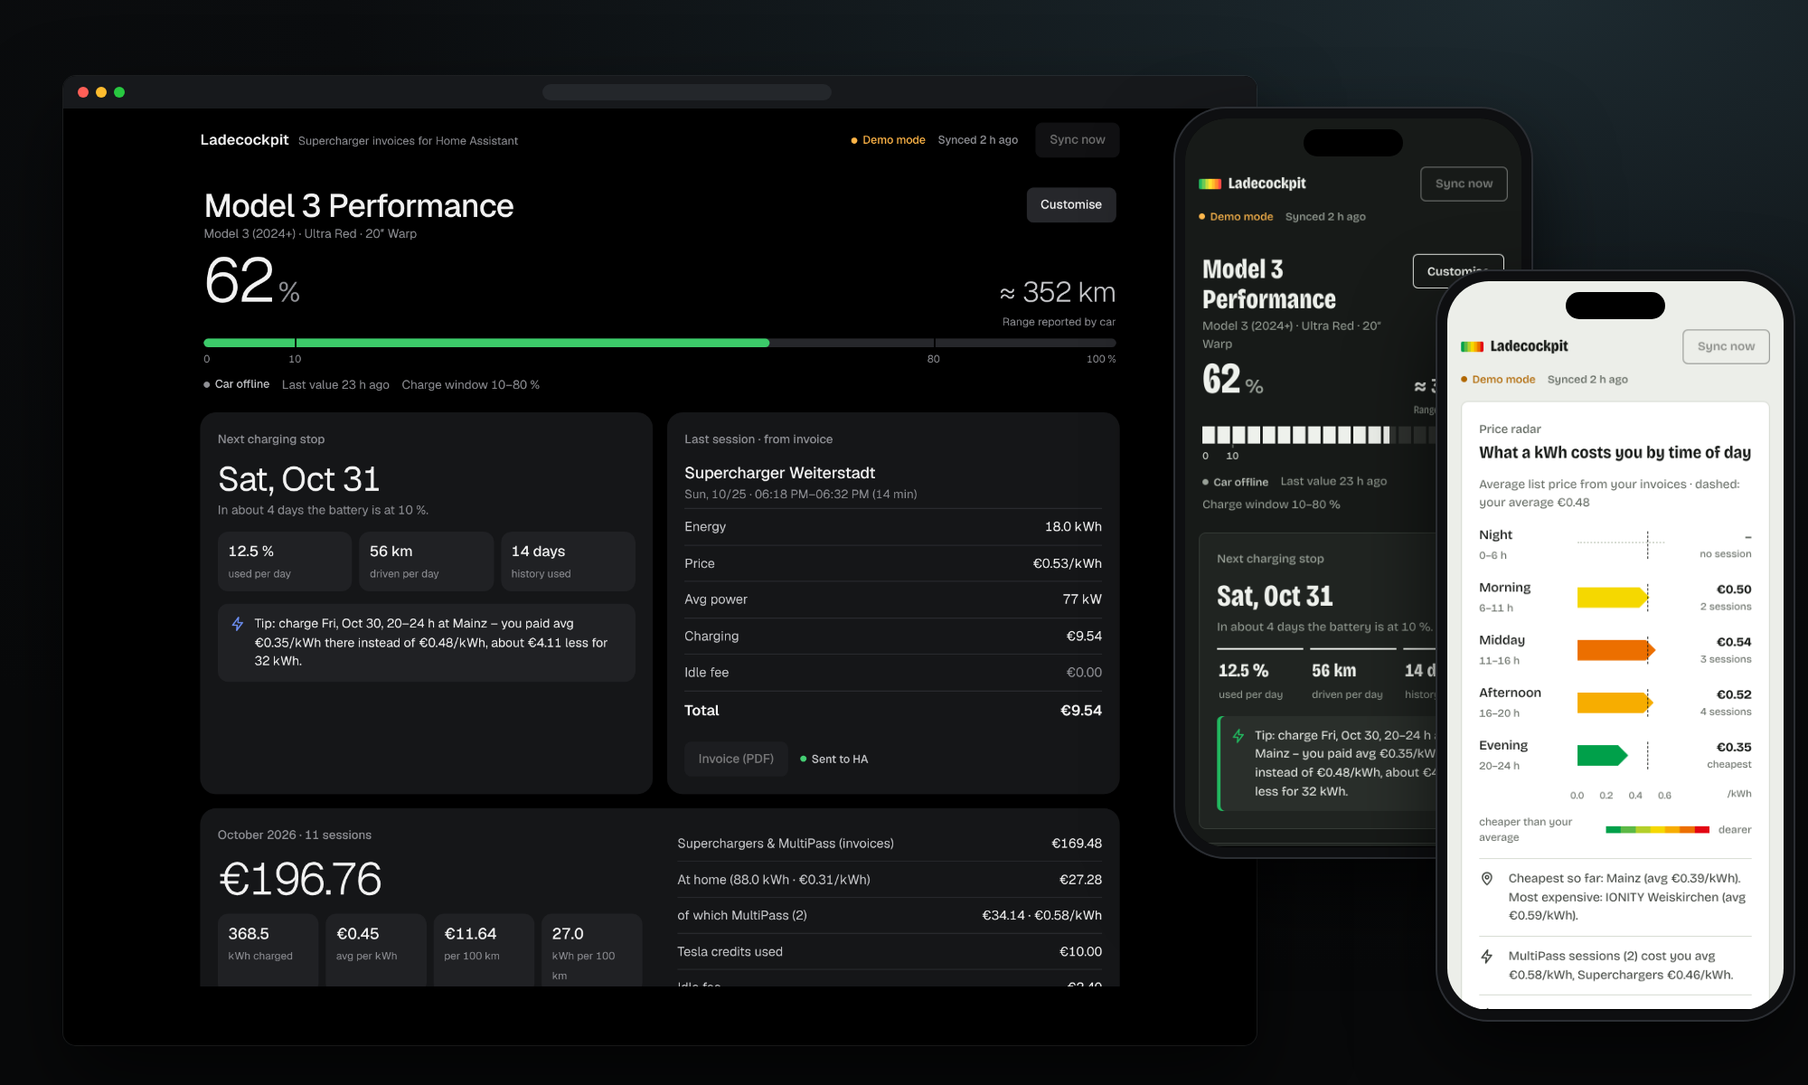
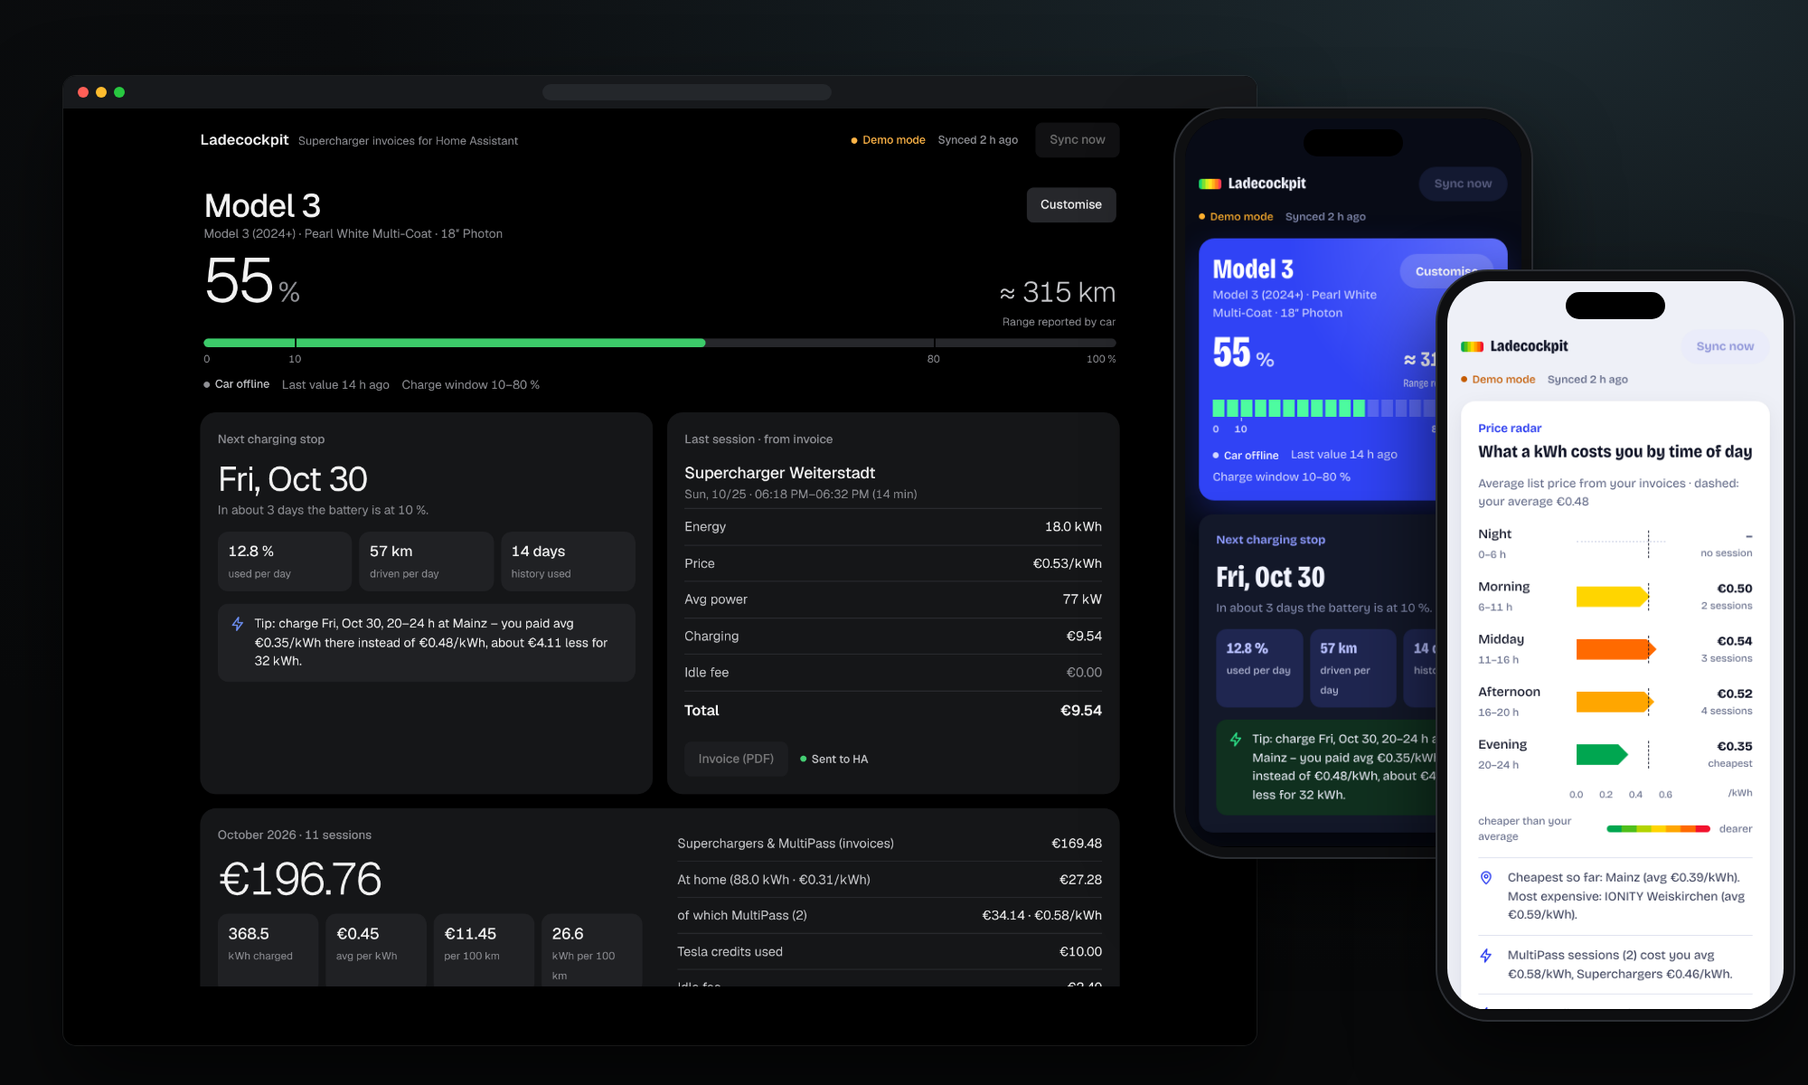
Ladecockpit 0.11.0: modern look in vivid colours

diff --git a/app/static/index.html b/app/static/index.html
@@ -417,10 +417,10 @@ footer { color: var(--mute); font-size: .8rem; display: flex; flex-wrap: wrap; g
 
 </style>
 <style id="look-modern" media="not all">
-/* Modern look: "price scale". Prices carry the colours of the energy label – dark green for
-   cheaper than your average, red for dearer – and that scale is the only colour on the page.
-   Everything else is ink on paper: one grotesque (Bricolage) with condensed bold figures, a
-   segmented battery like a car's display, outlined buttons, tiles with a hairline frame. */
+/* Modern look: "vivid". A saturated ultramarine block carries the car and the battery, everything
+   you can press is a filled pill, and prices wear the full colours of the energy label – green for
+   cheaper than your average, red for dearer. Clean cool whites (or a deep blue-black at night), one
+   grotesque (Bricolage) with condensed bold figures, a segmented battery like a car's display. */
 @font-face {
   font-family: "Bricolage Grotesque"; font-style: normal; font-weight: 200 800; font-stretch: 75% 100%; font-display: swap;
   src: url(fonts/bricolage-latin.woff2) format("woff2");
@@ -432,85 +432,110 @@ footer { color: var(--mute); font-size: .8rem; display: flex; flex-wrap: wrap; g
   unicode-range: U+0100-02BA, U+02BD-02C5, U+02C7-02CC, U+02CE-02D7, U+02DD-02FF, U+1D00-1DBF, U+1E00-1E9F, U+1EF2-1EFF, U+2020, U+20A0-20AB, U+20AD-20C0, U+2113, U+2C60-2C7F, U+A720-A7FF;
 }
 :root {
-  --bg: #eceee9;
+  --bg: #eef0f7;
   --panel: #ffffff;
-  --sunk: #f1f3ef;
-  --btn: transparent;
-  --btn-hover: #141714;
-  --line: #d6dbd2;
-  --ink: #141714;
-  --ink-2: #3a3f39;
-  --mute: #60675f;
-  --accent: #141714;
-  --accent-fill: #141714;
-  --accent-soft: #e2e6df;
+  --sunk: #f1f3fb;
+  --btn: #e6e9ff;
+  --btn-hover: #d6dbff;
+  --line: #e0e3ef;
+  --ink: #0d1124;
+  --ink-2: #343a55;
+  --mute: #5c6483;
+  --accent: #2b3df0;
+  --accent-fill: #2b3df0;
+  --accent-soft: #e6e9ff;
+  --accent-ink: #1d29b5;
   --on-accent: #ffffff;
-  --good: #0c8a43;
-  --good-soft: #dcefe2;
-  --battery: #141714;
-  --warn: #b06600;
-  --warn-soft: #fbeccc;
-  --bad: #d1121f;
-  --bad-soft: #fadadb;
-  --shadow: 0 10px 30px rgba(20, 23, 20, .14);
+  --good: #00874a;
+  --good-soft: #d6f6e5;
+  --battery: #00b85c;
+  --warn: #c45a00;
+  --warn-soft: #ffefd4;
+  --bad: #e0102b;
+  --bad-soft: #ffe1e5;
+  --shadow: 0 1px 2px rgba(13, 17, 36, .05), 0 10px 28px rgba(13, 17, 36, .07);
+  /* the block on top: car and battery */
+  --hero: #2b3df0;
+  --hero-glow: #5b6cff;
+  --on-hero: #ffffff;
+  --on-hero-2: #d3d8ff;
+  --hero-track: rgba(255, 255, 255, .2);
+  --hero-btn: rgba(255, 255, 255, .16);
+  --hero-fill: #4dfca0;
   /* the price scale, cheap to dear */
-  --t-a: #00a04a; --t-b: #5cb946; --t-c: #b4cf2a; --t-d: #f5d800; --t-e: #f7ad00; --t-f: #ec6f00; --t-g: #e30613;
+  --t-a: #00a650; --t-b: #4fbf1c; --t-c: #b3d400; --t-d: #ffd500; --t-e: #ffa600; --t-f: #ff6a00; --t-g: #f2132e;
 
   --f-body: "Bricolage Grotesque", system-ui, -apple-system, "Segoe UI", Roboto, sans-serif;
   --f-code: ui-monospace, SFMono-Regular, Menlo, Consolas, monospace;
 
-  --r: 8px;
+  --r: 16px;
 }
 @media (prefers-color-scheme: dark) {
   :root:not([data-theme="light"]) {
-    --bg: #171a18;
-    --panel: #202421;
-    --sunk: #2a2f2b;
-    --btn: transparent;
-    --btn-hover: #eef1ec;
-    --line: #363c37;
-    --ink: #eef1ec;
-    --ink-2: #c9cfc7;
-    --mute: #98a097;
-    --accent: #eef1ec;
-    --accent-fill: #eef1ec;
-    --accent-soft: #2f3530;
-    --on-accent: #171a18;
-    --good: #39c46d;
-    --good-soft: #1d3324;
-    --battery: #eef1ec;
-    --warn: #ffb84d;
-    --warn-soft: #3a2d14;
-    --bad: #ff5a52;
-    --bad-soft: #3d1a19;
-    --shadow: 0 10px 30px rgba(0, 0, 0, .55);
-    --t-a: #22b85f; --t-b: #6cc955; --t-c: #c3db3c; --t-d: #ffe12e; --t-e: #ffbd2b; --t-f: #ff8a2b; --t-g: #ff4a45;
+    --bg: #080b16;
+    --panel: #131829;
+    --sunk: #1b2138;
+    --btn: #222a52;
+    --btn-hover: #2d3769;
+    --line: #252c48;
+    --ink: #f2f4ff;
+    --ink-2: #c4c9e4;
+    --mute: #8a92b6;
+    --accent: #8e9bff;
+    --accent-fill: #3a4dff;
+    --accent-soft: #1f2650;
+    --accent-ink: #b9c1ff;
+    --on-accent: #ffffff;
+    --good: #2ee38a;
+    --good-soft: #10301f;
+    --battery: #2ee38a;
+    --warn: #ffb02e;
+    --warn-soft: #382a0f;
+    --bad: #ff4f63;
+    --bad-soft: #3c1520;
+    --shadow: 0 12px 32px rgba(0, 0, 0, .5);
+    --hero: #3043f5;
+    --hero-glow: #6271ff;
+    --on-hero: #ffffff;
+    --on-hero-2: #d3d8ff;
+    --hero-track: rgba(255, 255, 255, .2);
+    --hero-btn: rgba(255, 255, 255, .16);
+    --hero-fill: #4dfca0;
+    --t-a: #19d86e; --t-b: #7be033; --t-c: #cdf01f; --t-d: #ffe21f; --t-e: #ffb61a; --t-f: #ff7b1f; --t-g: #ff3d52;
     color-scheme: dark;
   }
 }
 :root[data-theme="dark"] {
-  --bg: #171a18;
-  --panel: #202421;
-  --sunk: #2a2f2b;
-  --btn: transparent;
-  --btn-hover: #eef1ec;
-  --line: #363c37;
-  --ink: #eef1ec;
-  --ink-2: #c9cfc7;
-  --mute: #98a097;
-  --accent: #eef1ec;
-  --accent-fill: #eef1ec;
-  --accent-soft: #2f3530;
-  --on-accent: #171a18;
-  --good: #39c46d;
-  --good-soft: #1d3324;
-  --battery: #eef1ec;
-  --warn: #ffb84d;
-  --warn-soft: #3a2d14;
-  --bad: #ff5a52;
-  --bad-soft: #3d1a19;
-  --shadow: 0 10px 30px rgba(0, 0, 0, .55);
-  --t-a: #22b85f; --t-b: #6cc955; --t-c: #c3db3c; --t-d: #ffe12e; --t-e: #ffbd2b; --t-f: #ff8a2b; --t-g: #ff4a45;
+  --bg: #080b16;
+  --panel: #131829;
+  --sunk: #1b2138;
+  --btn: #222a52;
+  --btn-hover: #2d3769;
+  --line: #252c48;
+  --ink: #f2f4ff;
+  --ink-2: #c4c9e4;
+  --mute: #8a92b6;
+  --accent: #8e9bff;
+  --accent-fill: #3a4dff;
+  --accent-soft: #1f2650;
+  --accent-ink: #b9c1ff;
+  --on-accent: #ffffff;
+  --good: #2ee38a;
+  --good-soft: #10301f;
+  --battery: #2ee38a;
+  --warn: #ffb02e;
+  --warn-soft: #382a0f;
+  --bad: #ff4f63;
+  --bad-soft: #3c1520;
+  --shadow: 0 12px 32px rgba(0, 0, 0, .5);
+  --hero: #3043f5;
+  --hero-glow: #6271ff;
+  --on-hero: #ffffff;
+  --on-hero-2: #d3d8ff;
+  --hero-track: rgba(255, 255, 255, .2);
+  --hero-btn: rgba(255, 255, 255, .16);
+  --hero-fill: #4dfca0;
+  --t-a: #19d86e; --t-b: #7be033; --t-c: #cdf01f; --t-d: #ffe21f; --t-e: #ffb61a; --t-f: #ff7b1f; --t-g: #ff3d52;
   color-scheme: dark;
 }
 
@@ -846,39 +871,60 @@ h1, h2, h3 { font-weight: 650; }
 /* Head: the name with the price scale as its mark */
 .brand h1 { font-size: 1.15rem; font-weight: 750; font-stretch: 80%; letter-spacing: 0; white-space: nowrap; }
 .brand h1::before {
-  content: ""; display: inline-block; vertical-align: -1px; margin-right: 8px; width: 26px; height: 12px; border-radius: 2px;
+  content: ""; display: inline-block; vertical-align: -1px; margin-right: 8px; width: 26px; height: 12px; border-radius: 3px;
   background: linear-gradient(90deg, var(--t-a) 0 14.3%, var(--t-b) 0 28.6%, var(--t-c) 0 42.9%, var(--t-d) 0 57.1%, var(--t-e) 0 71.4%, var(--t-f) 0 85.7%, var(--t-g) 0);
 }
 
-/* Buttons: outlined in ink, filled when pressed or primary */
-.btn { border: 1.5px solid var(--ink); border-radius: 6px; font-weight: 600; background: transparent; }
-.btn:hover { background: var(--ink); color: var(--panel); }
-.btn.primary { background: var(--ink); color: var(--panel); }
-.btn.primary:hover { background: var(--ink-2); }
-.exports a { background: transparent; border: 1px solid var(--line); border-radius: 6px; font-weight: 600; }
-.exports a:hover { background: var(--ink); color: var(--panel); border-color: var(--ink); }
-.chip.info { background: transparent; color: var(--ink-2); border: 1px solid var(--line); border-radius: 4px; }
-.link-btn, .map-link { color: var(--ink); text-decoration: underline; text-underline-offset: 3px; }
-a { color: var(--ink); text-underline-offset: 3px; }
+/* Everything you can press is a pill: tinted, filled in the accent when it matters */
+.btn { border: 0; border-radius: 999px; font-weight: 650; background: var(--btn); color: var(--accent-ink); padding-inline: 18px; }
+.btn:hover { background: var(--accent-fill); color: var(--on-accent); }
+.btn.primary { background: var(--accent-fill); color: var(--on-accent); }
+.btn.primary:hover { background: color-mix(in srgb, var(--accent-fill) 85%, var(--ink)); }
+.exports a { background: var(--btn); color: var(--accent-ink); border-radius: 999px; font-weight: 650; }
+.exports a:hover { background: var(--accent-fill); color: var(--on-accent); }
+.chip.info { background: var(--accent-soft); color: var(--accent-ink); border-radius: 999px; font-weight: 600; }
+.link-btn, .map-link { color: var(--accent); font-weight: 650; }
+a { color: var(--accent); text-underline-offset: 3px; }
 
-/* Tiles: hairline frame, small radius */
-.panel { border: 1px solid var(--line); }
-.panel h2 { font-size: 1.25rem; font-weight: 650; font-stretch: 88%; letter-spacing: 0; }
-.eyebrow { font-weight: 500; }
+/* Tiles: white on cool grey, soft shadow, no frame */
+.panel { box-shadow: var(--shadow); }
+.panel h2 { font-size: 1.25rem; font-weight: 700; font-stretch: 88%; letter-spacing: 0; }
+.eyebrow { font-weight: 650; color: var(--accent); }
 
 /* Figures: condensed bold */
-.big { font-weight: 720; font-stretch: 75%; letter-spacing: -.01em; line-height: .95; }
+.big { font-weight: 750; font-stretch: 75%; letter-spacing: -.01em; line-height: .95; }
 .big small { font-weight: 500; font-stretch: 100%; }
-.range { font-weight: 650; font-stretch: 78%; letter-spacing: 0; color: var(--ink); }
-.next-date { font-weight: 720; font-stretch: 75%; letter-spacing: 0; font-size: clamp(2.2rem, 7vw, 2.9rem); }
+.range { font-weight: 700; font-stretch: 78%; letter-spacing: 0; color: var(--ink); }
+.next-date { font-weight: 750; font-stretch: 75%; letter-spacing: 0; font-size: clamp(2.2rem, 7vw, 2.9rem); }
 .month-total .big { font-size: clamp(2.8rem, 10vw, 3.6rem); }
 .car-text h2 { font-weight: 750; font-stretch: 75%; letter-spacing: 0; font-size: clamp(2rem, 7vw, 2.8rem); }
-.receipt .site { font-weight: 650; font-stretch: 88%; font-size: 1.25rem; }
-.line.total { font-weight: 700; }
+.receipt .site { font-weight: 700; font-stretch: 88%; font-size: 1.25rem; }
+.line.total { font-weight: 750; }
 
-/* Small figure blocks: a rule on top instead of a filled box */
-.kpi, .fact { background: none; border-radius: 0; border-top: 2px solid var(--ink); padding: 8px 2px 0; }
-.kpi b, .fact b { font-weight: 700; font-stretch: 80%; font-size: 1.35rem; }
+/* Small figure blocks: tinted in the accent */
+.kpi, .fact { background: var(--accent-soft); border-radius: 12px; }
+.kpi b, .fact b { font-weight: 750; font-stretch: 80%; font-size: clamp(1.1rem, 4.4vw, 1.4rem); color: var(--accent-ink); }
+.kpi span, .fact span { color: var(--ink-2); }
+
+/* The block on top: car and battery on a saturated ground */
+.hero {
+  background: radial-gradient(120% 130% at 100% 0%, var(--hero-glow) 0%, transparent 60%), var(--hero);
+  color: var(--on-hero); border-radius: 22px; padding: 22px 24px 20px; gap: 10px;
+  box-shadow: 0 16px 40px color-mix(in srgb, var(--hero) 30%, transparent);
+}
+.hero .sub, .hero .stamp, .hero .range small, .hero .big small, .hero .car-miss, .hero .car-form label { color: var(--on-hero-2); }
+.hero .range { color: var(--on-hero); }
+.hero .chip { color: var(--on-hero); }
+.hero .chip::before { background: var(--on-hero-2); }
+.hero .chip.good::before { background: var(--hero-fill); }
+.hero .chip.bad { color: var(--on-hero); }
+.hero .btn { background: var(--hero-btn); color: var(--on-hero); }
+.hero .btn:hover, .hero .btn.primary { background: var(--on-hero); color: var(--hero); }
+.hero .link-btn { color: var(--on-hero); text-decoration: underline; text-underline-offset: 3px; }
+.hero .car-form select { background: var(--hero-btn); color: var(--on-hero); border: 0; }
+.hero .car-form select option { color: var(--ink); background: var(--panel); }
+.hero :focus-visible { outline-color: var(--on-hero); }
+@media (max-width: 560px) { .hero { padding: 18px 16px 16px; border-radius: 18px; } }
 
 /* Battery: 20 segments like the car's display, floor and limit marked by the figures under it */
 .gauge { padding-bottom: 24px; }
@@ -887,45 +933,51 @@ a { color: var(--ink); text-underline-offset: 3px; }
   -webkit-mask: repeating-linear-gradient(90deg, #000 0 calc(5% - 3px), transparent calc(5% - 3px) 5%);
           mask: repeating-linear-gradient(90deg, #000 0 calc(5% - 3px), transparent calc(5% - 3px) 5%);
 }
-.hero .gauge-track { background: color-mix(in srgb, var(--ink) 12%, var(--bg)); }
+.hero .gauge-track { background: var(--hero-track); }
 .gauge-fill { border-radius: 0; }
+.hero .gauge-fill { background: var(--hero-fill); }
+.hero .gauge-fill.warn { background: var(--t-e); }
+.hero .gauge-fill.bad { background: var(--t-g); }
 .gauge-floor, .gauge-limit { display: none; }
-.gauge-scale span { color: var(--ink-2); font-weight: 500; }
-.gauge-scale span::before { content: ""; position: absolute; left: 50%; top: -5px; width: 1px; height: 4px; background: var(--mute); }
+.gauge-scale span { color: var(--ink-2); font-weight: 600; }
+.hero .gauge-scale span { color: var(--on-hero-2); }
+.gauge-scale span::before { content: ""; position: absolute; left: 50%; top: -5px; width: 1px; height: 4px; background: currentColor; }
 .gauge-scale span:first-child::before, .gauge-scale span:last-child::before { display: none; }
 
-/* Tips save money: the cheap end of the scale marks them */
-.tip { background: var(--sunk); border-radius: 6px; box-shadow: inset 4px 0 0 var(--t-a); padding-left: 16px; }
-.tip svg { color: var(--t-a); }
-.insights li svg { color: var(--ink-2); }
+/* Tips save money: they wear the cheap end of the scale */
+.tip { background: var(--good-soft); border-radius: 12px; }
+.tip svg { color: var(--good); }
+.insights li svg { color: var(--accent); }
 
 /* Price radar: arrows on the scale, like an energy label */
 .radar-track { height: 28px; }
 .radar-bar, .radar-row.best .radar-bar {
   top: 2px; bottom: 2px; border-radius: 0;
-  background: var(--tone, var(--ink-2));
+  background: var(--tone, var(--accent-fill));
   clip-path: polygon(0 0, calc(100% - 12px) 0, 100% 50%, calc(100% - 12px) 100%, 0 100%);
 }
 .radar-avg { border-left: 1.5px dashed var(--ink); }
-.radar-val { font-weight: 700; }
+.radar-val { font-weight: 750; }
 .tone-legend { display: flex; align-items: center; gap: 10px; font-size: .78rem; color: var(--mute); }
 .tone-legend .scale {
-  width: 120px; height: 8px; flex: none;
+  width: 120px; height: 8px; flex: none; border-radius: 4px;
   background: linear-gradient(90deg, var(--t-a) 0 14.3%, var(--t-b) 0 28.6%, var(--t-c) 0 42.9%, var(--t-d) 0 57.1%, var(--t-e) 0 71.4%, var(--t-f) 0 85.7%, var(--t-g) 0);
 }
 
 /* Lists: the price of a site or a session carries its colour too */
-.minibar { background: var(--sunk); border-radius: 0; }
-.minibar i { background: var(--tone, var(--ink-2)); border-radius: 0; }
-td[data-tone]:not([data-tone=""])::before { content: ""; display: inline-block; width: 8px; height: 8px; margin-right: 6px; background: var(--tone); vertical-align: 1px; }
+.minibar { background: var(--sunk); }
+.minibar i { background: var(--tone, var(--accent-fill)); }
+td[data-tone]:not([data-tone=""])::before { content: ""; display: inline-block; width: 9px; height: 9px; border-radius: 50%; margin-right: 6px; background: var(--tone); vertical-align: 0; }
 
-/* Month history and meters in ink */
-.col .bar { background: var(--ink); border-radius: 2px 2px 0 0; }
-.col.cur .bar { background: repeating-linear-gradient(135deg, var(--ink) 0 4px, transparent 4px 8px); box-shadow: inset 0 0 0 1.5px var(--ink); }
-.meter { border-radius: 0; background: var(--sunk); }
-.meter i { background: var(--ink); border-radius: 0; }
+/* Month history and meters in the accent */
+.col .bar { background: var(--accent-fill); border-radius: 6px 6px 0 0; }
+.col.cur .bar { background: repeating-linear-gradient(135deg, var(--accent-fill) 0 4px, var(--accent-soft) 4px 8px); box-shadow: inset 0 0 0 1.5px var(--accent-fill); }
+.col .v { font-weight: 650; color: var(--ink); }
+.meter { background: var(--sunk); }
+.meter i { background: var(--accent-fill); }
 
-.car-form select, form.code input { background: var(--sunk); border: 1px solid var(--line); border-radius: 6px; }
+.car-form select, form.code input { background: var(--sunk); border: 1px solid var(--line); border-radius: 10px; }
+footer .look-pick button[aria-pressed="true"] { background: var(--accent-fill); color: var(--on-accent); }
 </style>
 <style>
 /* --- PDF view (Home Assistant app only: it has no PDF viewer) --------------------------------- */

diff --git a/app/__init__.py b/app/__init__.py
@@ -1,1 +1,1 @@
-__version__ = "0.10.0"
+__version__ = "0.11.0"

diff --git a/README.de.md b/README.de.md
@@ -211,9 +211,9 @@ Die Fleet API wird pro Abfrage abgerechnet. Ladecockpit nutzt nur Datenabfragen 
 
 ## Datenschutz und Sicherheit
 
-- Die Web-App lädt nichts von anderen Diensten nach, außer dem Bild deines Autos aus Teslas Konfigurator; die Schriften bringt sie selbst mit. Ganz unten auf der Seite wählst du das Design: klassisch (ruhig, nah an der App des Autos) oder modern (Preise in den Farben des Energielabels).
+- Die Web-App lädt nichts von anderen Diensten nach, außer dem Bild deines Autos aus Teslas Konfigurator; die Schriften bringt sie selbst mit. Ganz unten auf der Seite wählst du das Design: klassisch (ruhig, nah an der App des Autos) oder modern (kräftige Farben, Preise in den Farben des Energielabels).
 - Alles bleibt bei dir: Tokens, Rechnungen und Messwerte liegen im Docker-Volume `ladecockpit-data` (SQLite und PDF-Cache).
-- Ladecockpit spricht nur mit Tesla und deinem Home Assistant. Die Web-App lädt außerdem das Bild deines Autos von Teslas Bildserver und die Schriften von Google Fonts. Die Kartenlinks der MultiPass-Stationen öffnen eine Google-Maps-Suche nach dem Stationsnamen – nur wenn du einen anklickst.
+- Ladecockpit spricht nur mit Tesla und deinem Home Assistant. Die Web-App lädt außerdem das Bild deines Autos von Teslas Bildserver. Die Kartenlinks der MultiPass-Stationen öffnen eine Google-Maps-Suche nach dem Stationsnamen – nur wenn du einen anklickst.
 - Im LAN oder hinter einem Reverse-Proxy mit Anmeldung betreiben. `APP_PASSWORD` gibt einen einfachen HTTP-Basic-Schutz.
 - Die eigene `.env` nie committen. Sie steht bereits in `.gitignore`.
 

diff --git a/README.md b/README.md
@@ -249,9 +249,9 @@ The Fleet API is billed per request. Ladecockpit only uses data requests for the
 
 ## Privacy and security
 
-- The web app loads nothing from other services except the picture of your car from Tesla's configurator; its typefaces ship with it. At the bottom of the page you pick its look: classic (calm, close to the car's app) or modern (prices coloured like an energy label).
+- The web app loads nothing from other services except the picture of your car from Tesla's configurator; its typefaces ship with it. At the bottom of the page you pick its look: classic (calm, close to the car's app) or modern (vivid colours, prices coloured like an energy label).
 - Everything stays on your machine: tokens, invoices and readings live in the Docker volume `ladecockpit-data` (SQLite and a PDF cache).
-- Ladecockpit talks only to Tesla and your Home Assistant. The web app also loads the picture of your car from Tesla's image server and the fonts from Google Fonts. The map links of MultiPass stations open a Google Maps search for the station's name – only when you click one.
+- Ladecockpit talks only to Tesla and your Home Assistant. The web app also loads the picture of your car from Tesla's image server. The map links of MultiPass stations open a Google Maps search for the station's name – only when you click one.
 - Run it in your LAN or behind a reverse proxy with authentication. `APP_PASSWORD` adds simple HTTP Basic protection.
 - Never commit your `.env`. It is already in `.gitignore`.
 

diff --git a/CHANGELOG.md b/CHANGELOG.md
@@ -1,5 +1,9 @@
 # Changelog
 
+## 0.11.0 – 2026-10-27
+
+- **Modern look in vivid colours.** The car and the battery sit on a saturated ultramarine block, the battery segments light up in bright green (orange and red when it runs low). Buttons are filled pills, the small figure tiles and the month history are tinted blue, tips that save money are green. The energy-label colours of the prices are fuller, the light background is a clean cool white instead of the greyish green, and dark mode is a deep blue-black. *Classic* stays as it was.
+
 ## 0.10.0 – 2026-10-27
 
 - **The fuel price you actually paid.** The combustion-car comparison can use what you really paid per litre instead of a fixed price or a station's current price. Set two new options, *Fuel cost total* and *Litres filled total* – two entities that grow with each fill-up, e.g. the helpers of a fuel log in Home Assistant. Ladecockpit keeps a daily reading of both and uses the average of the last 90 days; until it has 90 days, or after the totals were reset, it uses everything the totals hold. The paid price wins over *Fuel price from an entity* and the fixed fuel price; the month card says "… €/L paid", and a tip shows how many litres the average is based on.

diff --git a/ladecockpit-app/CHANGELOG.md b/ladecockpit-app/CHANGELOG.md
@@ -1,5 +1,9 @@
 # Changelog
 
+## 0.11.0 – 2026-10-27
+
+- **Modern look in vivid colours.** The car and the battery sit on a saturated ultramarine block, the battery segments light up in bright green (orange and red when it runs low). Buttons are filled pills, the small figure tiles and the month history are tinted blue, tips that save money are green. The energy-label colours of the prices are fuller, the light background is a clean cool white instead of the greyish green, and dark mode is a deep blue-black. *Classic* stays as it was.
+
 ## 0.10.0 – 2026-10-27
 
 - **The fuel price you actually paid.** The combustion-car comparison can use what you really paid per litre instead of a fixed price or a station's current price. Set two new options, *Fuel cost total* and *Litres filled total* – two entities that grow with each fill-up, e.g. the helpers of a fuel log in Home Assistant. Ladecockpit keeps a daily reading of both and uses the average of the last 90 days; until it has 90 days, or after the totals were reset, it uses everything the totals hold. The paid price wins over *Fuel price from an entity* and the fixed fuel price; the month card says "… €/L paid", and a tip shows how many litres the average is based on.
